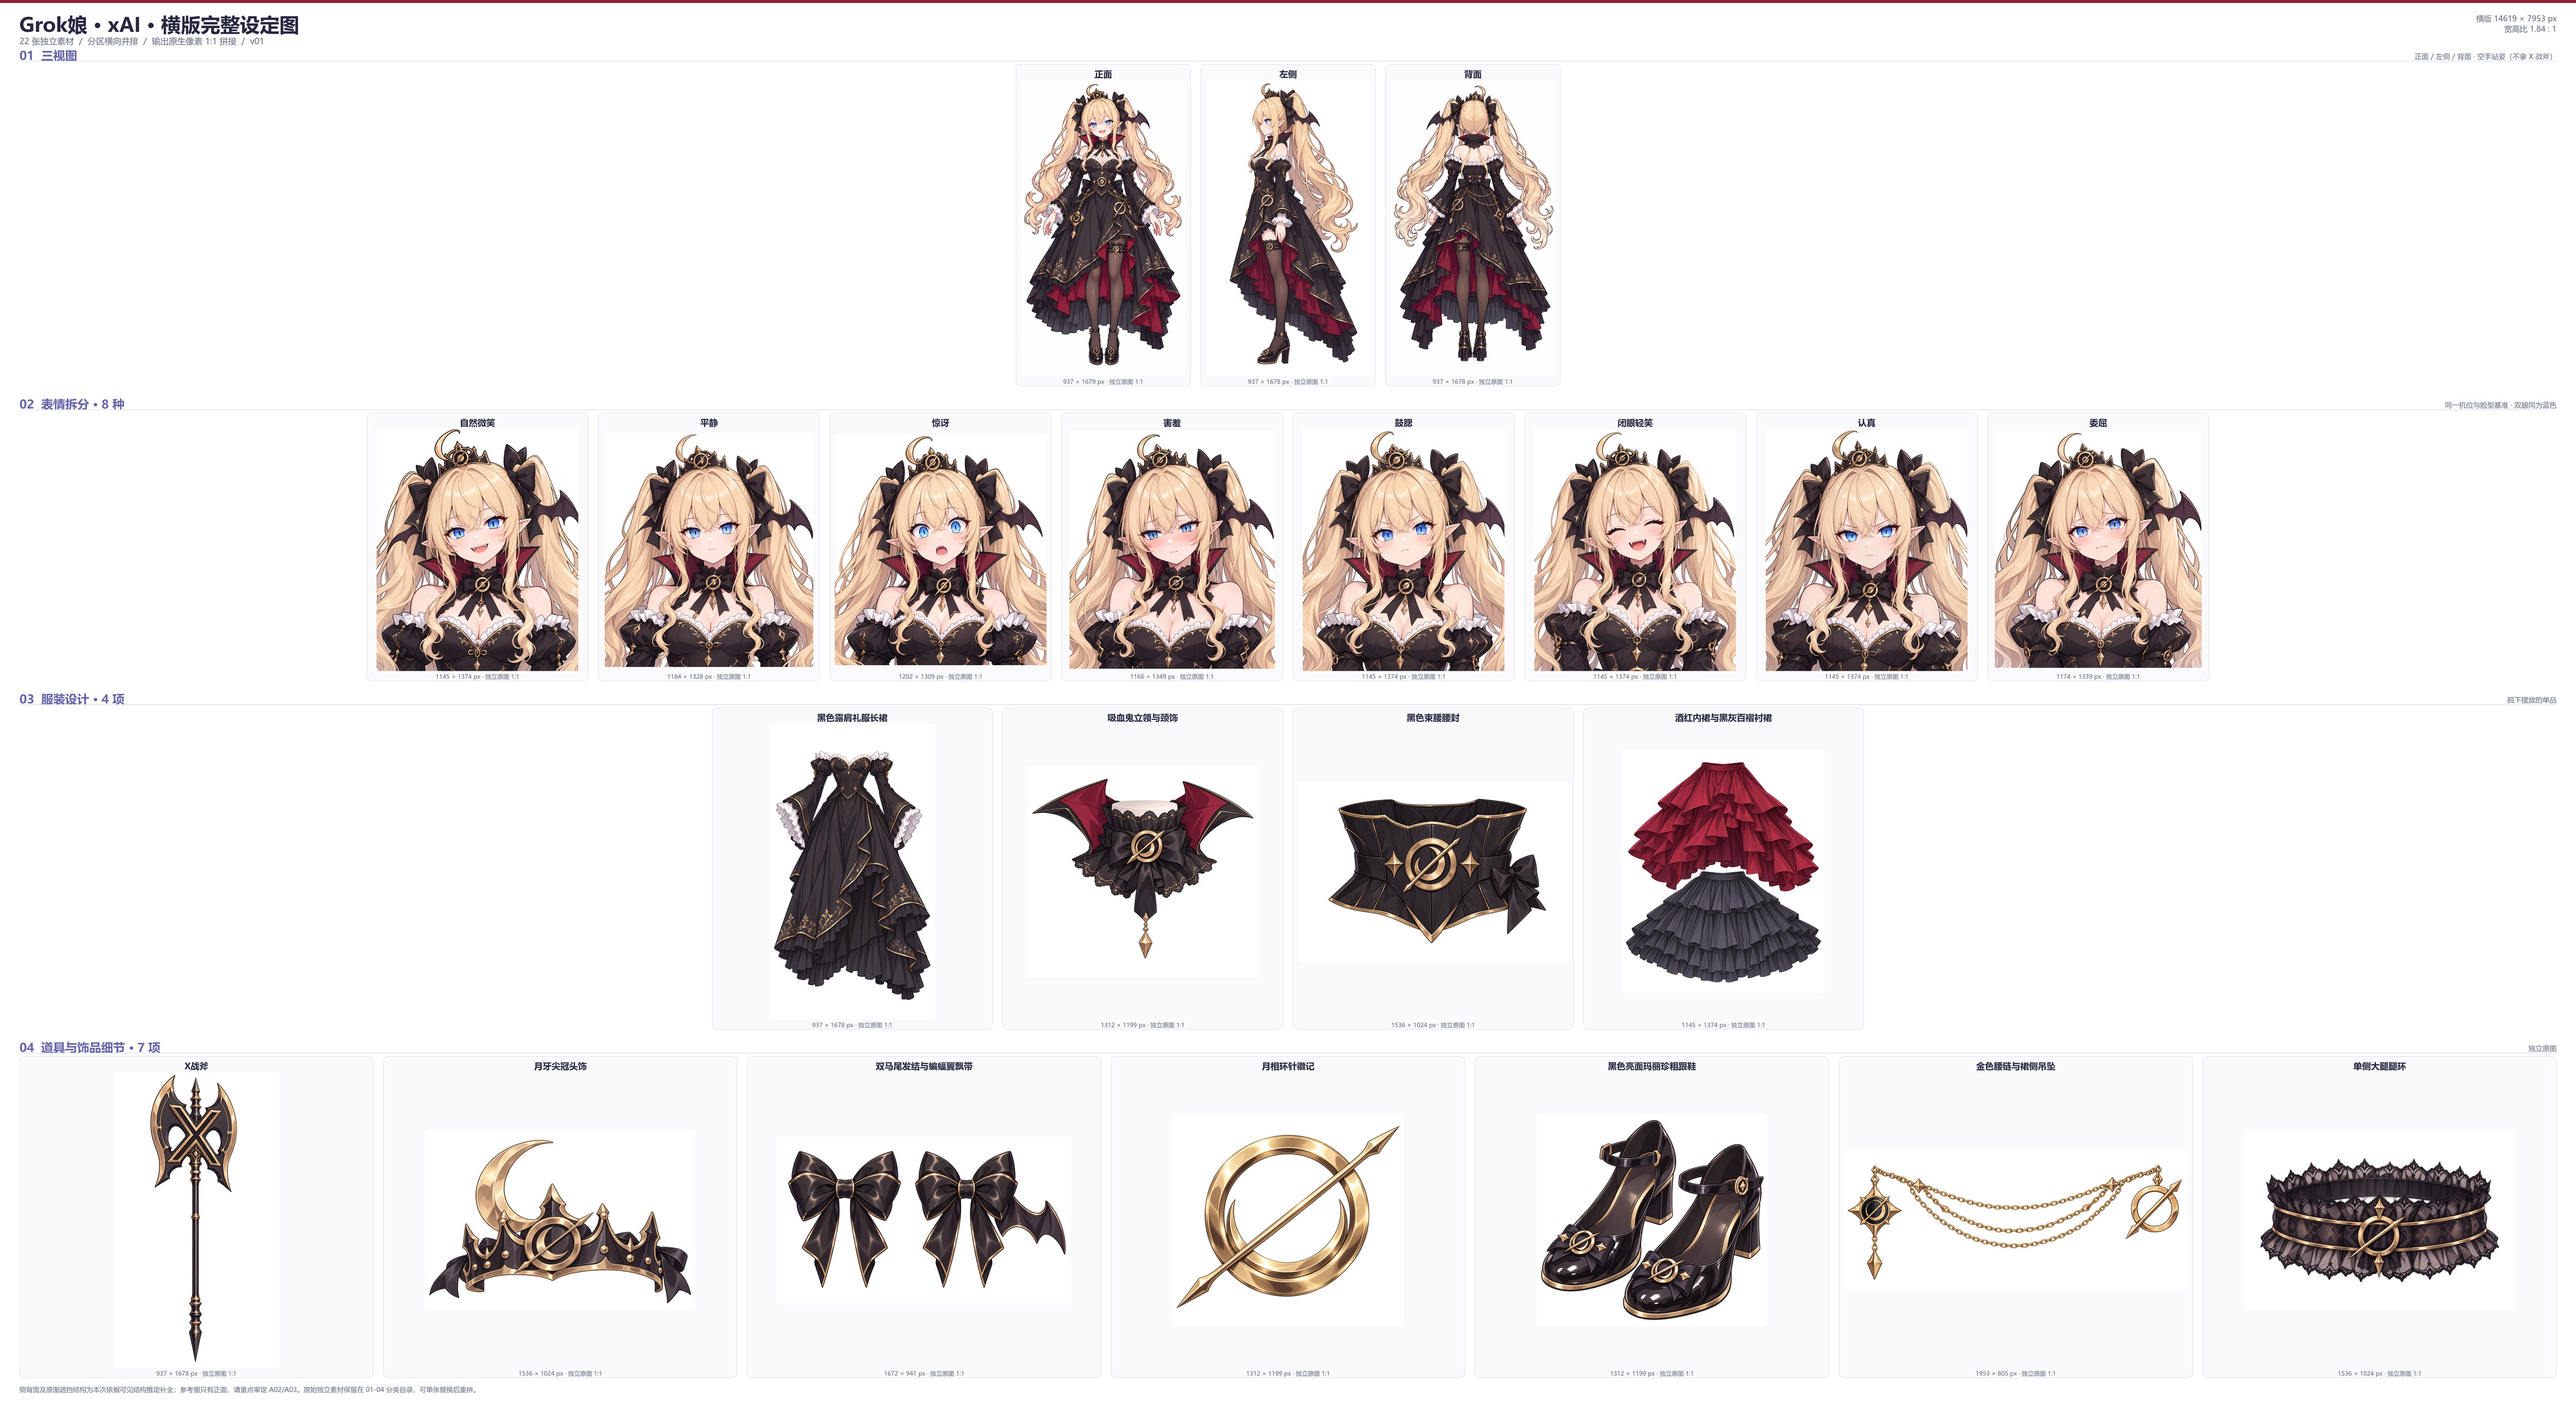
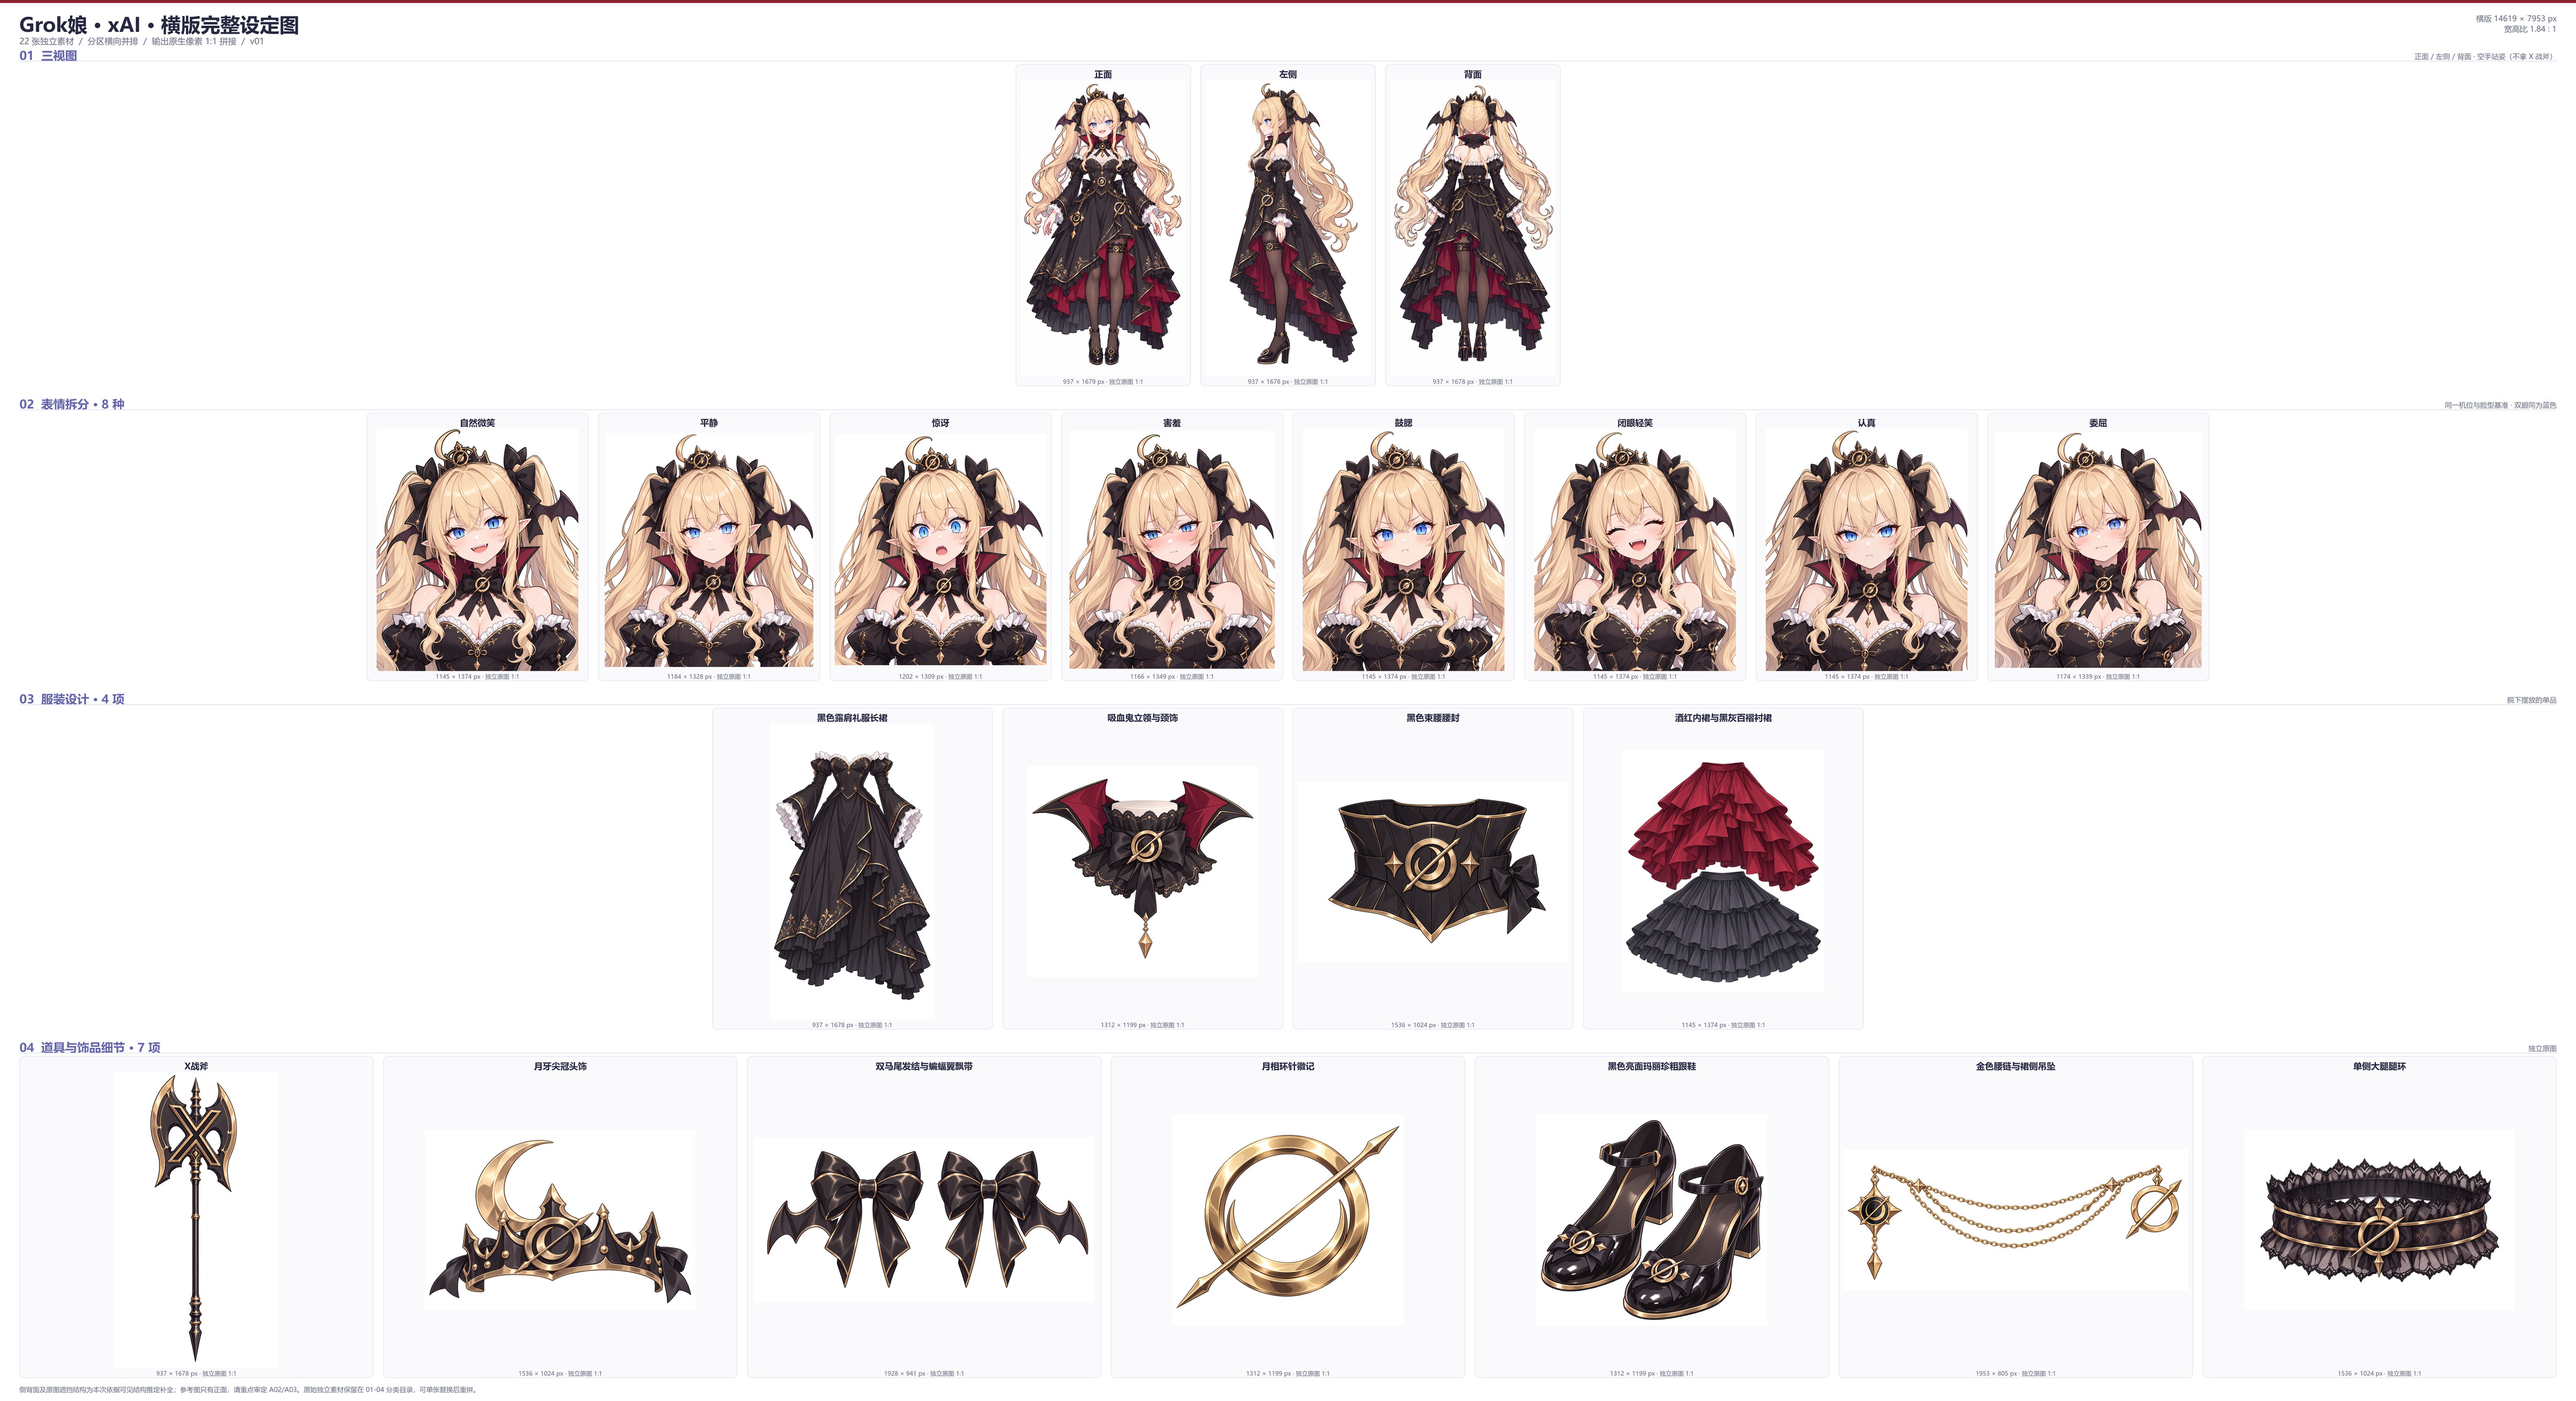
按原立绘补齐 Grok 娘双翼发饰和黑袜

Changed region(s): [[0.2807, 0.8079, 0.4367, 0.9322]]

diff --git a/设定图/09_Grok娘_xAI/腿环露肤版/README.md b/设定图/09_Grok娘_xAI/腿环露肤版/README.md
@@ -1,6 +1,6 @@
 # Grok 娘 · 腿环露肤版
 
-正面和背面采用 @juanhanyu 在 [PR #9](https://github.com/lmy414/ai-chan-sheets/pull/9) 提交的改图，腿环上方露肤，与仓库现版的左侧图一致。
+正面和背面采用 @juanhanyu 在 [PR #9](https://github.com/lmy414/ai-chan-sheets/pull/9) 提交的改图，腿环上方露肤，与 PR 提交时所用的左侧图一致。
 
 [全板预览](完整设定图_浏览预览.jpg) · [三视图 JPG](便于查看/横版完整设定图_01_三视图_查看用.jpg) · [三视图原像素 PNG](原图切片/横版完整设定图_01_三视图_原图.png)
 
@@ -10,7 +10,7 @@
 
 本目录的两张独立素材按像素提取自 PR 的无损三视图切片。提取坐标和文件哈希见[生成记录](生成记录/)。
 
-复制一份含 22 张独立素材的 Grok 娘原制作工程。在副本中替换 `制作清单.json`，再把本目录的 `01_三视图/`、`生成记录/` 和 `提示词/` 中的新增文件放入副本的对应目录。工程使用 `00_生成记录/` 和 `00_提示词/` 时，沿用这两个目录名。
+复制一份含 22 张独立素材的 Grok 娘原制作工程，使用 PR #9 合并时对应的素材。可在本目录的拼接索引核对哈希。在副本中替换 `制作清单.json`，再把本目录的 `01_三视图/`、`生成记录/` 和 `提示词/` 中的新增文件放入副本的对应目录。工程使用 `00_生成记录/` 和 `00_提示词/` 时，沿用这两个目录名。
 
 从仓库根目录依次运行拼板、校验和导出脚本，把下列“工程副本”换成副本路径。
 

diff --git a/设定图/09_Grok娘_xAI/README.md b/设定图/09_Grok娘_xAI/README.md
@@ -3,6 +3,6 @@
 - [仓库现版](完整设定图_浏览预览.jpg) · [查看用分区](便于查看/) · [原像素切片](原图切片/)
 - [腿环露肤版](腿环露肤版/) · [全板预览](腿环露肤版/完整设定图_浏览预览.jpg)
 
-腿环露肤版采用 @juanhanyu 在 [PR #9](https://github.com/lmy414/ai-chan-sheets/pull/9) 提交的正面和背面改图。两版共用左侧、表情、服装和道具素材。
+腿环露肤版采用 @juanhanyu 在 [PR #9](https://github.com/lmy414/ai-chan-sheets/pull/9) 提交的正面和背面改图。现版于 2026-11-26 补齐了正面、背面和道具拆分中的双侧蝙蝠翼形发饰，也修正了左侧三视图的透肉黑袜。对照原作者立绘及 4K 壁纸确认这两处设定。
 
 [原作者立绘](../../参考原图/09_Grok娘_xAI/原图_立绘_持X战斧.jpg) · [版权与授权](../../版权与授权.md)

diff --git a/参考原图/09_Grok娘_xAI/裁切/说明.md b/参考原图/09_Grok娘_xAI/裁切/说明.md
@@ -7,7 +7,7 @@
 |---|---|
 | `裁切_尖冠与新月.png` | 黑色尖刺小冠、金环斜针徽记与冠上淡金新月 |
 | `裁切_蓝眼与尖耳.png` | 蓝宝石色竖裂瞳孔、上挑眼线与尖精灵耳 |
-| `裁切_黑缎蝴蝶结与蝙蝠翼飘带.png` | 双马尾根部的黑缎蝴蝶结与蝙蝠翼形飘带 |
+| `裁切_黑缎蝴蝶结与蝙蝠翼飘带.png` | 双马尾的黑缎蝴蝶结与蝙蝠翼形发饰。画面左翼尖被战斧挡住一部分，可对照 [4K 壁纸](../原图_4K壁纸_友善的吸血鬼.png) |
 | `裁切_双马尾发尾.png` | 右侧马尾的发量、卷度与发梢渐变 |
 | `裁切_吸血鬼立领与颈饰.png` | 酒红内衬尖角立领、黑蕾丝高颈饰与金环胸针 |
 | `裁切_胸衣蕾丝与金纹.png` | 露肩胸衣的白蕾丝荷叶边与金线藤蔓刺绣 |
